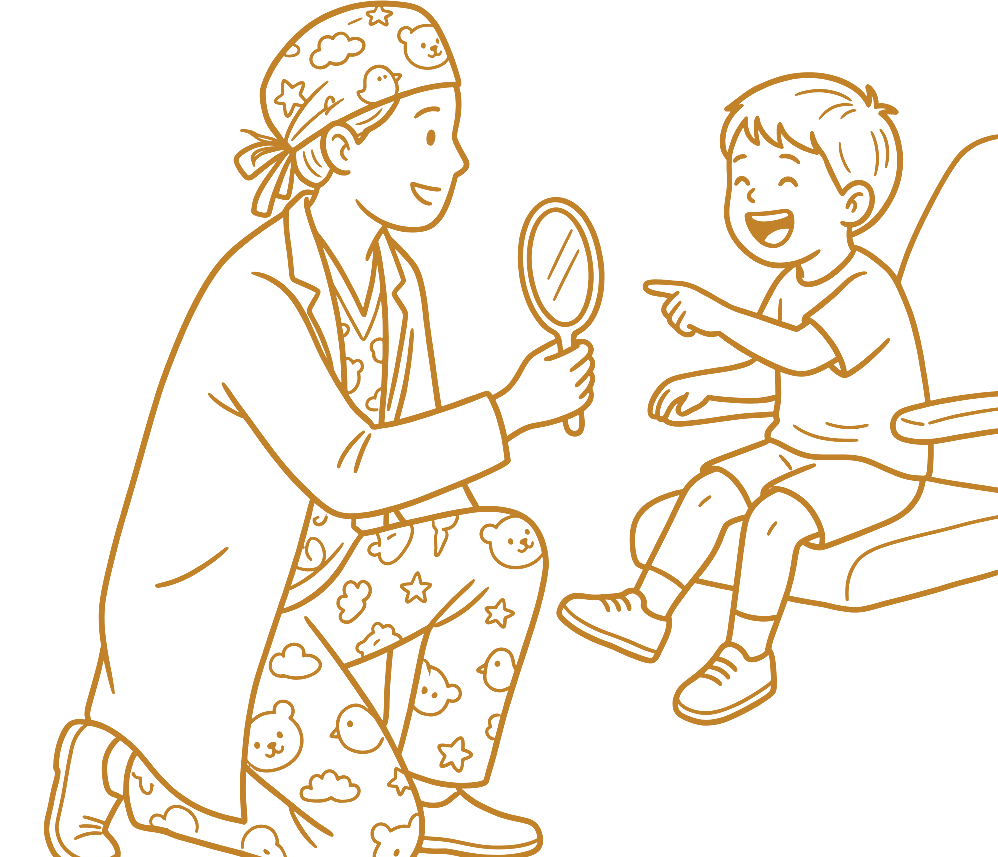
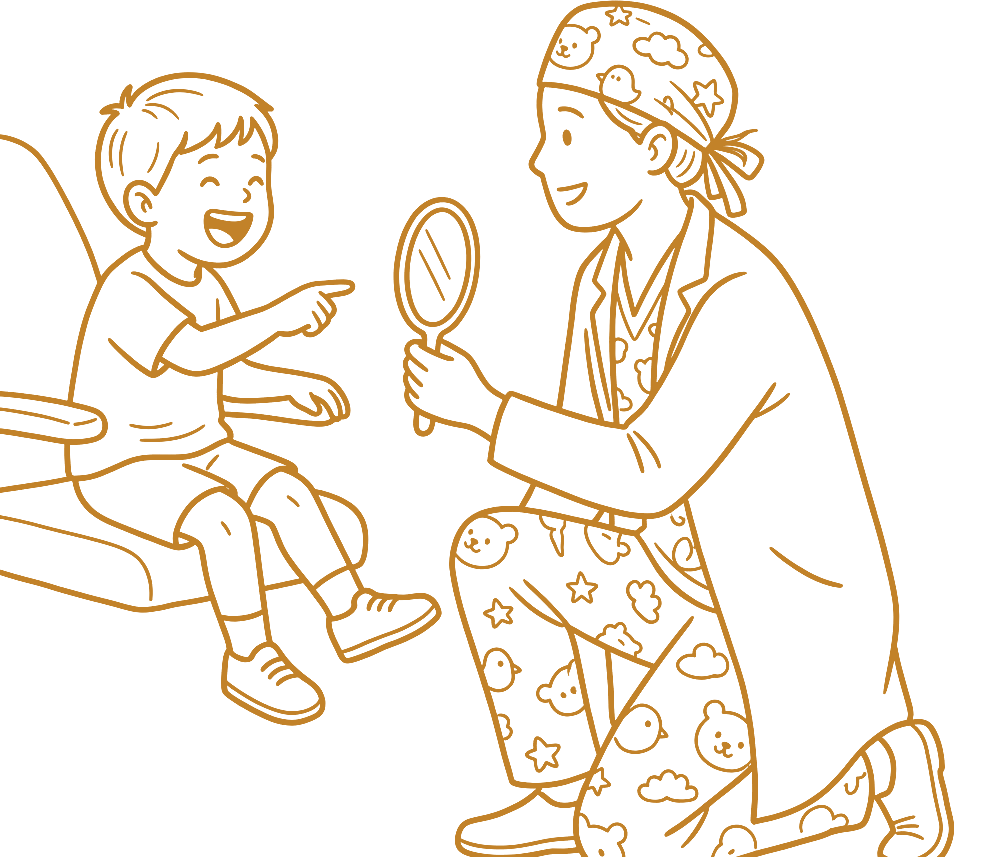
兒牙線稿：翻轉烘進圖檔，提案頁改成牙周那套「框窄一截＋圖照高度撐滿靠左」，尺換成「裁掉幾欄」（96~288，預設 144 ＝ 使用者選的 +50）

diff --git a/preview/topic-lineart-kids/index.html b/preview/topic-lineart-kids/index.html
@@ -4854,13 +4854,14 @@ body[data-topic] #topics { padding-top: 1rem; }
    var(--pv-*) 換成選中的定值。 */
 [data-topic="kids"] .tp-intro { position: relative; }
 [data-topic="kids"] .tp-intro::before {
-  content: ""; position: absolute; right: calc(-1 * var(--pv-dx, 0px)); bottom: 0;
-  width: var(--pv-w, min(76%, 360px)); aspect-ratio: 998 / 857;
-  background-image: url("../../assets/lineart-kids.png");
-  background-repeat: no-repeat; background-size: contain;
-  background-position: var(--pv-bp, center) center;
-  opacity: var(--pv-op, .12); pointer-events: none; z-index: 0;
-  transform: var(--pv-flip, none); transform-origin: center;
+  content: ""; position: absolute; right: calc(-1 * var(--pv-dx, 14px)); bottom: 0;
+  width: var(--pv-w, min(85.6%, 419px));
+  aspect-ratio: calc(998 - var(--pv-cut, 144)) / 857;
+  /* ⚠ 牙周那一套：**框窄一截 ＋ 圖照高度撐滿靠左**，多出來的被框裁掉。
+     比例尺不變（auto 100% 是按高度算的），只是整張往右移。
+     ⚠ 翻轉已經烘進圖檔（tools/topic-lineart.mjs --flip），這裡不再用 transform。 */
+  background: url("../../assets/lineart-kids.png") left center / auto 100% no-repeat;
+  opacity: var(--pv-op, .152); pointer-events: none; z-index: 0;
 }
 @media (min-width: 721px) { [data-topic="kids"] .tp-intro::before { opacity: var(--pv-op, .15); } }
 [data-topic="kids"] .tp-intro > * { position: relative; z-index: 1; }
@@ -7193,17 +7194,12 @@ html[data-pvfig="off"] [data-topic="kids"] .tp-intro::before { display: none; }
     <button type="button" data-v="4">最濃</button>
   </div>
   <div class="pv-row" data-k="dx">
-    <span class="pv-lab">往右</span>
+    <span class="pv-lab">裁掉</span>
     <button type="button" data-v="0">＋40</button>
     <button type="button" data-v="1">＋</button>
     <button type="button" data-v="2">＋＋</button>
     <button type="button" data-v="3">＋＋＋</button>
     <button type="button" data-v="4">最右</button>
-  </div>
-  <div class="pv-row" data-k="flip">
-    <span class="pv-lab">方向</span>
-    <button type="button" data-v="off">原方向（醫師在左）</button>
-    <button type="button" data-v="on">翻轉（醫師在右）</button>
   </div>
   <div class="pv-row">
     <button type="button" id="pvReset">把圖關掉／打開（看版面有沒有被動到）</button>
@@ -7219,9 +7215,14 @@ html[data-pvfig="off"] [data-topic="kids"] .tp-intro::before { display: none; }
      360／.48 之後說「好像太大了　而且太濃」，所以 ≥721 這一段整把尺往下移
      —— 原本的第一格 360 變成這一段的**最後一格**，另外三格全是比它小的。
      手機那把沒有動（他已經選定 a ＝ min(76%,360px) ＋ .107）。 */
-  var WM = { a: "min(81.25%, 390px)", b: "min(90%, 430px)", c: "min(96%, 460px)", d: "min(100%, 490px)" };
-  var WD = { a: "min(76%, 400px)", b: "min(88%, 460px)", c: "min(96%, 520px)", d: "min(100%, 580px)" };
+  var WMP = { a: 81.25, b: 90, c: 96, d: 100 }, WMX = { a: 390, b: 430, c: 460, d: 490 };
+  var WDP = { a: 76, b: 88, c: 96, d: 100 },     WDX = { a: 400, b: 460, c: 520, d: 580 };
   var WDPX = { a: "400", b: "460", c: "520", d: "580" };
+  function widthCSS() {
+    var cut = +((isWide() ? CUTD : CUTM)[get("dx")] || 144), k = (998 - cut) / 998;
+    var P = isWide() ? WDP : WMP, X = isWide() ? WDX : WMX, g = get("w");
+    return "min(" + (P[g] * k).toFixed(1) + "%, " + Math.round(X[g] * k) + "px)";
+  }
   var WMTXT = { a: "現況", b: "大", c: "更大", d: "最大" };
   /* ⚠ 手機第二格 .107 是**算出來的 AA 上限**（柔墨 #5c5f57 壓在 #ae4f4d 上剛好 4.5）。
      第三、四格已經在 4.5 底下，面板會即時標出來。 */
@@ -7240,20 +7241,24 @@ html[data-pvfig="off"] [data-topic="kids"] .tp-intro::before { display: none; }
   /* ⚠⚠ 「貼齊螢幕邊」之後還要更右，只能讓**圖在框裡往右移**（出血），
      框本身不能再推 —— 再推就凸出螢幕、整頁可以左右拉（CLAUDE.md 記著踩過）。
      出血的部分被偽元素的框裁掉，不會產生水平捲動；等於牙周那張「裁右」的鏡像。 */
+  /* 「裁多少」＝ 從圖檔右緣（翻轉後是醫師的背）切掉幾欄原圖。
+     ⚠ 框的寬度要跟著等比例縮，**比例尺才不會變** —— 這是牙周那一輪的做法：
+       框寬 ＝ 原本的寬 × (998 − 裁量) ÷ 998，圖用 auto 100% 靠左，超出的被框裁掉。
+     使用者 2026-08-24 在 375 上選的是「出血 50 rendered px」＝ 原圖 144 欄。 */
+  var CUTM = { "0": "96", "1": "144", "2": "192", "3": "240", "4": "288" };
   var DXM = { "0": "14px", "1": "14px", "2": "14px", "3": "14px", "4": "14px" };
-  var BLM = { "0": "40px", "1": "50px", "2": "60px", "3": "70px", "4": "80px" };
   /* ⚠⚠ ≥721 的上限**不是版心留白，是最窄的那台**：實測 721 上介紹區離螢幕邊只有
      23.8px、iPad mini 744 只有 22.5px，推 32px 就多出水平捲動（1041 以上有 189px 以上，
      完全不是限制）。所以這一段最後一格收在 20px。 */
+  var CUTD = { "0": "96", "1": "144", "2": "192", "3": "240", "4": "288" };
   var DXD = { "0": "20px", "1": "20px", "2": "20px", "3": "20px", "4": "20px" };
-  var BLD = { "0": "50px", "1": "65px", "2": "80px", "3": "95px", "4": "110px" };
   /* ⚠⚠ 手機與 ≥721 是**兩組獨立的值**（站上本來就分兩段）——
      牙周那一輪量出來：iPad 的文字比較長（字級 +19%），同一組值在那一段會讓
      流程那幾行（柔墨）壓到線。所以大小也要分兩段記，不能只分濃度。
      ⚠⚠ **分段用 721 不是 834**（牙周定案時同一件事）：使用者的 iPad 是
      **mini 直放 744**，用 834 分會把他那台歸到「手機」那一段，
      他看到的和定案的就不是同一件事。 */
-  var st = { wM: "d", opM: "2", wD: "b", opD: "2", dxM: "2", dxD: "2", fig: "on", flip: "on" };
+  var st = { wM: "d", opM: "2", wD: "b", opD: "2", dxM: "1", dxD: "1", fig: "on" };
   var q = location.search;
   ["w", "op", "dx"].forEach(function (k) {
     var m = q.match(new RegExp("[?&]" + k + "=([a-z0-9]+)"));
@@ -7269,17 +7274,11 @@ html[data-pvfig="off"] [data-topic="kids"] .tp-intro::before { display: none; }
 
   function paint() {
     root.dataset.pvfig = st.fig;
-    root.style.setProperty("--pv-flip", st.flip === "on" ? "scaleX(-1)" : "none");
-    document.querySelectorAll('.pv-row[data-k="flip"] button').forEach(function (bt) {
-      bt.setAttribute("aria-pressed", String(bt.dataset.v === st.flip));
-    });
-    root.style.setProperty("--pv-w", (isWide() ? WD : WM)[get("w")] || WM.a);
+
+    root.style.setProperty("--pv-w", widthCSS());
+    root.style.setProperty("--pv-cut", (isWide() ? CUTD : CUTM)[get("dx")] || "144");
     root.style.setProperty("--pv-dx", (isWide() ? DXD : DXM)[get("dx")] || "0px");
-    var bl = (isWide() ? BLD : BLM)[get("dx")] || "0px";
-    /* ⚠⚠ 翻轉是 scaleX(-1)：畫面上的「往右」在未翻轉的座標裡是「往左」，
-       所以出血的方向要跟著鏡射，不然按下去圖會往反方向跑。 */
-    root.style.setProperty("--pv-bp", bl === "0px" ? "center"
-      : (st.flip === "on" ? "calc(0% - " + bl + ")" : "calc(100% + " + bl + ")"));
+
     root.style.setProperty("--pv-op", String(opVal()));
     document.querySelectorAll(".pv-row[data-k]").forEach(function (row) {
       var k = row.dataset.k;
@@ -7295,8 +7294,8 @@ html[data-pvfig="off"] [data-topic="kids"] .tp-intro::before { display: none; }
     var oBt = document.querySelectorAll('.pv-row[data-k="op"] button');
     var dBt = document.querySelectorAll('.pv-row[data-k="dx"] button');
     dBt.forEach(function (bt) {
-      var v = (isWide() ? DXD : DXM)[bt.dataset.v], b = (isWide() ? BLD : BLM)[bt.dataset.v];
-      bt.textContent = "＋" + b;
+      
+      bt.textContent = (isWide() ? CUTD : CUTM)[bt.dataset.v] + " 欄";
     });
     if (isWide()) {
       wBt.forEach(function (bt) { bt.textContent = WDPX[bt.dataset.v] + "px"; });
@@ -7346,7 +7345,8 @@ html[data-pvfig="off"] [data-topic="kids"] .tp-intro::before { display: none; }
         cv.width = Math.max(1, Math.round(fw)); cv.height = Math.max(1, Math.round(fh));
         var g = cv.getContext("2d", { willReadFrequently: true });
         g.clearRect(0, 0, cv.width, cv.height);
-        g.drawImage(img, 0, 0, cv.width, cv.height);   /* 和 CSS 的 contain 同一個做法 */
+        /* 和 CSS 那條 auto 100% 靠左 同一個做法：先按高度撐滿，再靠左、超出的不畫 */
+        g.drawImage(img, 0, 0, Math.round(fh * 998 / 857), Math.round(fh));
         ink = g.getImageData(0, 0, cv.width, cv.height).data;
       } catch (e) { ink = null; }
     }
@@ -7359,9 +7359,7 @@ html[data-pvfig="off"] [data-topic="kids"] .tp-intro::before { display: none; }
         if (rr.width < 2 || rr.height < 2) return;
         lines++;
         if (!on || !ink) return;
-        var rx0 = rr.left - fig.left, rx1 = rr.right - fig.left;
-        if (st.flip === "on") { var t = cv.width - rx1; rx1 = cv.width - rx0; rx0 = t; }  /* ⚠ scaleX(-1) 之後座標要鏡射 */
-        var x0 = Math.max(0, Math.floor(rx0)), x1 = Math.min(cv.width, Math.ceil(rx1));
+        var x0 = Math.max(0, Math.floor(rr.left - fig.left)), x1 = Math.min(cv.width, Math.ceil(rr.right - fig.left));
         var y0 = Math.max(0, Math.floor(rr.top - fig.top)), y1 = Math.min(cv.height, Math.ceil(rr.bottom - fig.top));
         if (x1 <= x0 || y1 <= y0) return;
         var n = 0;
@@ -7391,7 +7389,7 @@ html[data-pvfig="off"] [data-topic="kids"] .tp-intro::before { display: none; }
     var gap = innerWidth - fig.right;   /* 圖的右緣離螢幕右邊多遠 */
     var txt = "視窗 " + Math.round(innerWidth) + "×" + Math.round(innerHeight) +
       "　圖 " + Math.round(fw) + "×" + Math.round(fh) + "（" + IMG_W + "×" + IMG_H + "）" +
-      "　濃度 " + al.toFixed(3) + "　" + (st.flip === "on" ? "翻轉" : "原方向") +
+      "　濃度 " + al.toFixed(3) + "　裁 " + ((isWide() ? CUTD : CUTM)[get("dx")]) + " 欄" +
       "\n壓到線的字 " + hit + "／" + lines + " 行";
     if (hit) {
       txt += "　最差對比 " + (worst >= 4.5 ? worst.toFixed(2) + " ✓" : "<b>" + worst.toFixed(2) + " ⚠ 低於 4.5</b>") +
